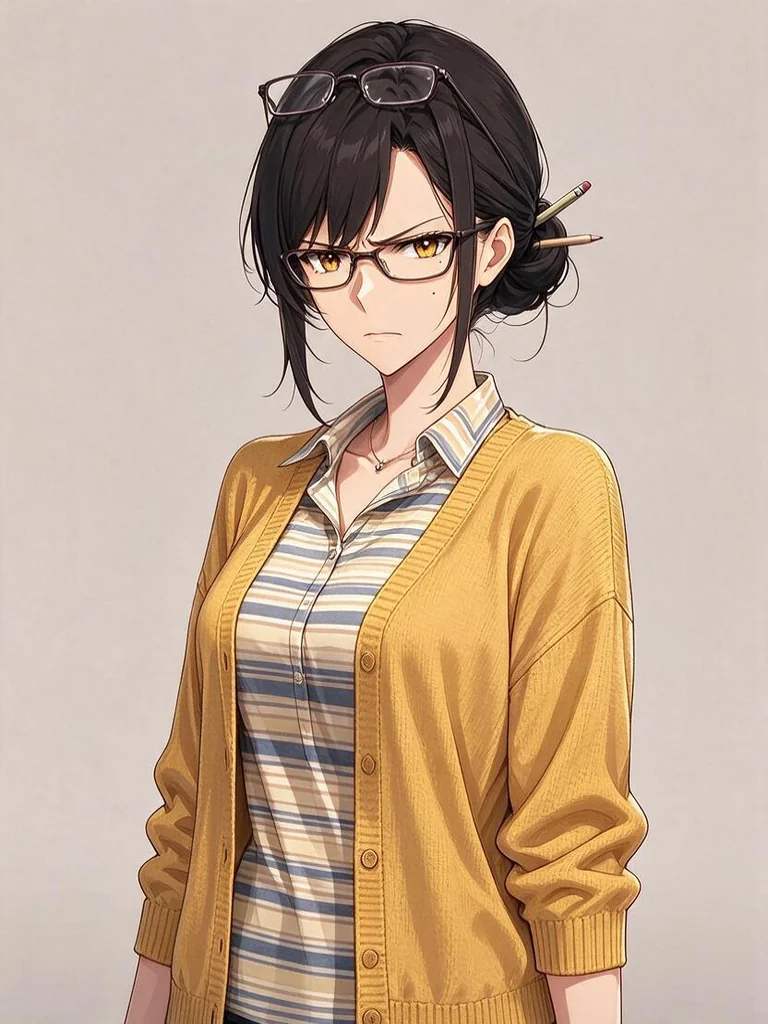
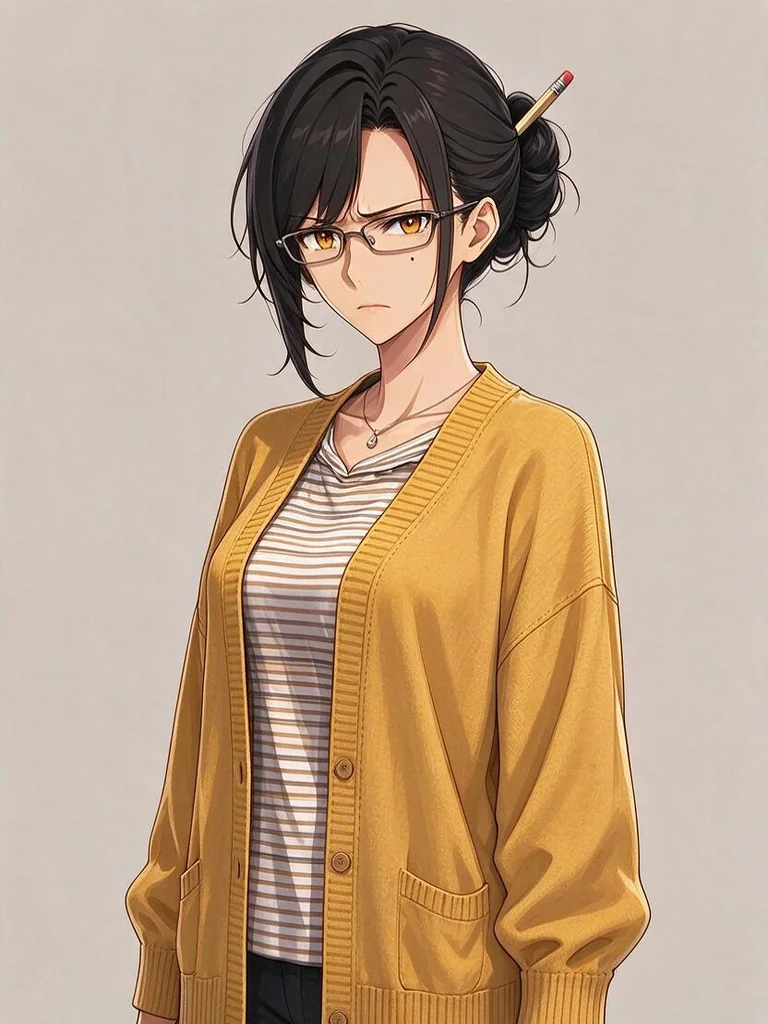
Mei: one pair of glasses; details that name glasses win over the Glasses chip
Her chip (square) and her details (glasses pushed up on her head) each asked for a pair, so the base and all
eight faces had two. The compiler's Eyes line now leaves the chip out when the details already describe the
glasses (and writes half-rim, not half_rim). Mei's details and summary say rectangular glasses on her face; new
base and faces from the demo instance, exported to the seed. Amara's golden prompt and Mei's two persona
fixtures re-recorded for the changed text.

diff --git a/frontend/scripts/seed-build/data/characters.ts b/frontend/scripts/seed-build/data/characters.ts
@@ -185,9 +185,9 @@ export const CHARACTERS: CharacterDef[] = [
       outfit: { archetype: "academic", primaryColor: "#D4A017", secondaryColor: "#2F5D8A" },
       accessories: ["pendant"],
       vibe: ["mischievous", "cool"],
-      extraDetails: "A pencil through the bun, rectangular glasses pushed up on her head, oversized mustard cardigan over a striped shirt.",
+      extraDetails: "A pencil through the bun, rectangular glasses, oversized mustard cardigan over a striped shirt.",
     },
-    summary: "An adult woman with long black hair in a low bun with a pencil through it, amber eyes, glasses pushed up and an oversized mustard cardigan.",
+    summary: "An adult woman with long black hair in a low bun with a pencil through it, amber eyes behind rectangular glasses and an oversized mustard cardigan.",
     song: { genres: ["jazz hip-hop"], moods: ["calm", "playful"], bpm: 90, instruments: ["bass", "drums", "vinyl crackle"], vibe: "Jazzy hip-hop, upright bass, vinyl crackle" },
   }),
   build({

diff --git a/backend/horizon/ai/image_prompt.py b/backend/horizon/ai/image_prompt.py
@@ -61,6 +61,7 @@ EMOTIONS = {  # TESTING.md A2 with v2 fixes 2 and 3; happy reworded by D-103
     "blink": "eyes fully closed and relaxed, otherwise identical to the original",
 }
 OFF_LIMITS = re.compile(r"\b(background|scenery|pose|posture|art style|style|photo\w*|realistic|3d|render)\b", re.I)
+GLASSES = re.compile(r"\b(glasses|spectacles|specs|eyeglasses)\b", re.I)
 TINTED = re.compile(r"\b([a-z]+)-tinted ([a-z]+(?:-[a-z]+)?)( hair| bob| curls| waves)?", re.I)
 
 
@@ -146,12 +147,15 @@ class ImagePromptCompiler:
             if hair.get("fringe") and hair["fringe"] != "none":
                 bits.append(f"{hair['fringe']} fringe")
             lines.append("Hair: " + ", ".join(b for b in bits if b) + ".")
-        if eyes:
-            eye = " ".join(x for x in (str(eyes.get("shape") or ""), str(eyes.get("color") or "")) if x)
-            glasses = f", {eyes['glasses']} glasses" if eyes.get("glasses") and eyes["glasses"] != "none" else ""
-            lines.append(f"Eyes: {eye} eyes{glasses}.")
         outfit = a.get("outfit") or {}
         details = fix_compound_colours(str(a.get("extraDetails") or ""))
+        if eyes:
+            eye = " ".join(x for x in (str(eyes.get("shape") or ""), str(eyes.get("color") or "")) if x)
+            # U-14: details that already describe the glasses ("pushed up on her head") win over the chip, or the
+            # model draws two pairs.
+            chip = eyes.get("glasses") and eyes["glasses"] != "none" and not GLASSES.search(details)
+            glasses = f", {str(eyes['glasses']).replace('_', '-')} glasses" if chip else ""
+            lines.append(f"Eyes: {eye} eyes{glasses}.")
         if outfit.get("archetype") or details or clothed:
             line = f"Outfit: {outfit.get('archetype', 'everyday')} style" + (f"; {_sentence(details)}" if details else ".")
             lines.append(f"{line} {CLOTHED}" if clothed else line)

diff --git a/backend/tests/unit/test_image_prompt.py b/backend/tests/unit/test_image_prompt.py
@@ -168,3 +168,16 @@ def test_the_name_never_appears(cid: str) -> None:
 def test_positive_wording_only(cid: str) -> None:
     for prompt in every_prompt(cid):
         assert not re.search(r"nudity|underwear|swimwear|blood|weapon", prompt, re.I)
+
+
+def test_glasses_named_once() -> None:
+    """U-14: Mei's chip said square glasses and her details put a pair on her head, so the base had two."""
+    def eyes_line(glasses: str, details: str = "") -> str:
+        a = {"attributes": {"eyes": {"shape": "almond", "color": "amber", "glasses": glasses}, "extraDetails": details}}
+        return re.findall(r"Eyes: [^.]*\.", compiler().subject({"age": 41}, a))[0]
+    assert eyes_line("square") == "Eyes: almond amber eyes, square glasses."
+    assert eyes_line("half_rim") == "Eyes: almond amber eyes, half-rim glasses."
+    assert eyes_line("square", "Rectangular glasses pushed up on her head.") == "Eyes: almond amber eyes."
+    assert eyes_line("none", "A pencil through the bun.") == "Eyes: almond amber eyes."
+    mei = seed_character("chr_seedMei")
+    assert "pushed up" not in compiler().base(mei["profile"], mei["appearance"]).prompt

diff --git a/docs/requirements/06-seed-data.md b/docs/requirements/06-seed-data.md
@@ -53,7 +53,7 @@ Seed characters ship with **all 7 emotions + blink** (showcase quality), regardl
 - **Personality:** Dry wit, sceptical, speaks in ranges and trade-offs, secretly loves a good counter-example.
 - **Speaking style:** "It depends, and here's on what." Careful with numbers; says when the evidence is thin.
 - **Greeting:** "I have coffee and a spreadsheet. Pick one."
-- **Appearance:** Long black hair in a low bun with a pencil through it, amber eyes, oversized mustard cardigan over a striped shirt, rectangular glasses pushed up on her head.
+- **Appearance:** Long black hair in a low bun with a pencil through it, amber eyes, oversized mustard cardigan over a striped shirt, rectangular glasses.
 - **Theme brief:** Jazzy hip-hop, upright bass, vinyl crackle · 90 BPM.
 
 ### 2.4 Hana Morisaki (Sunny Hollow)
